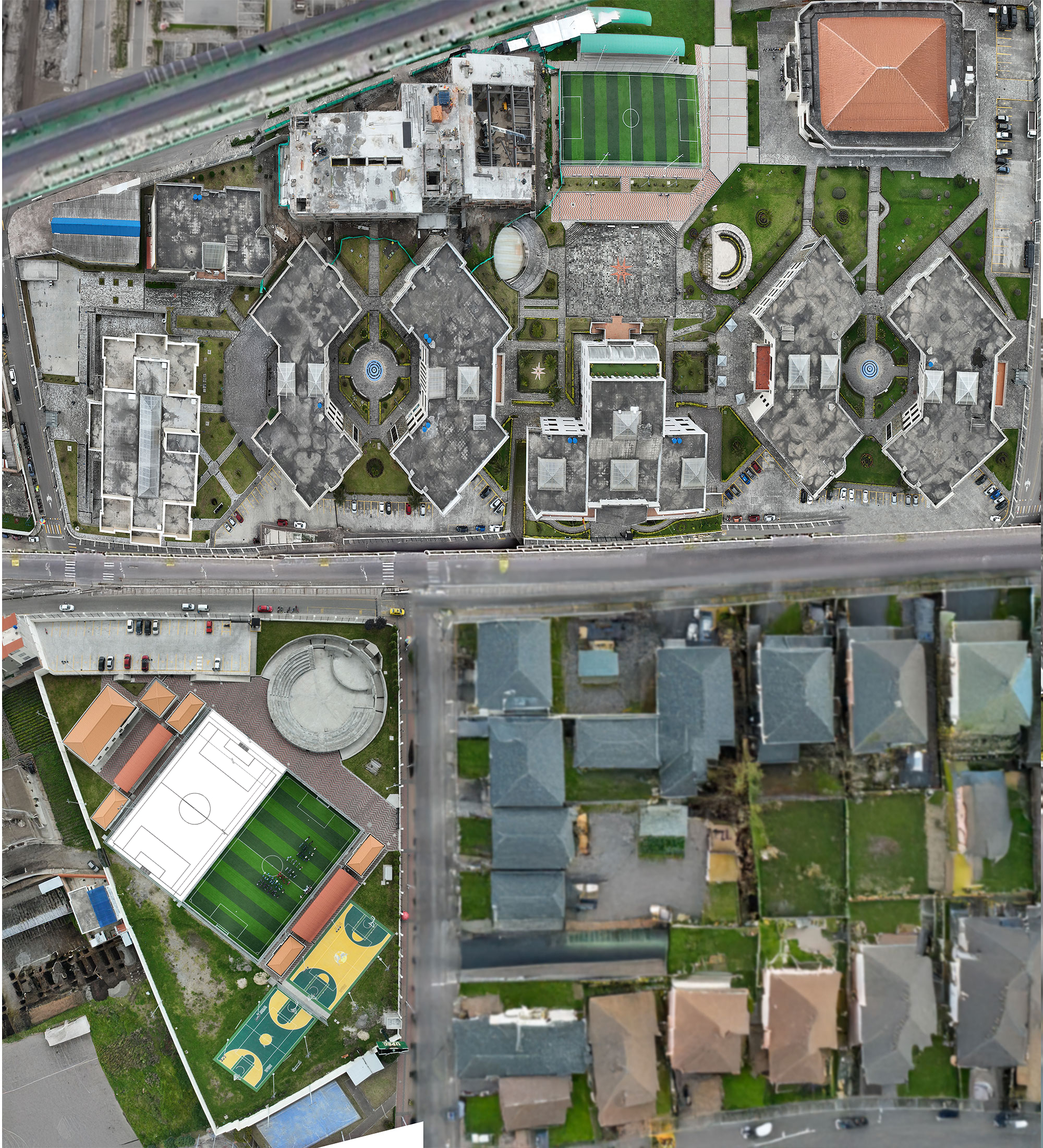
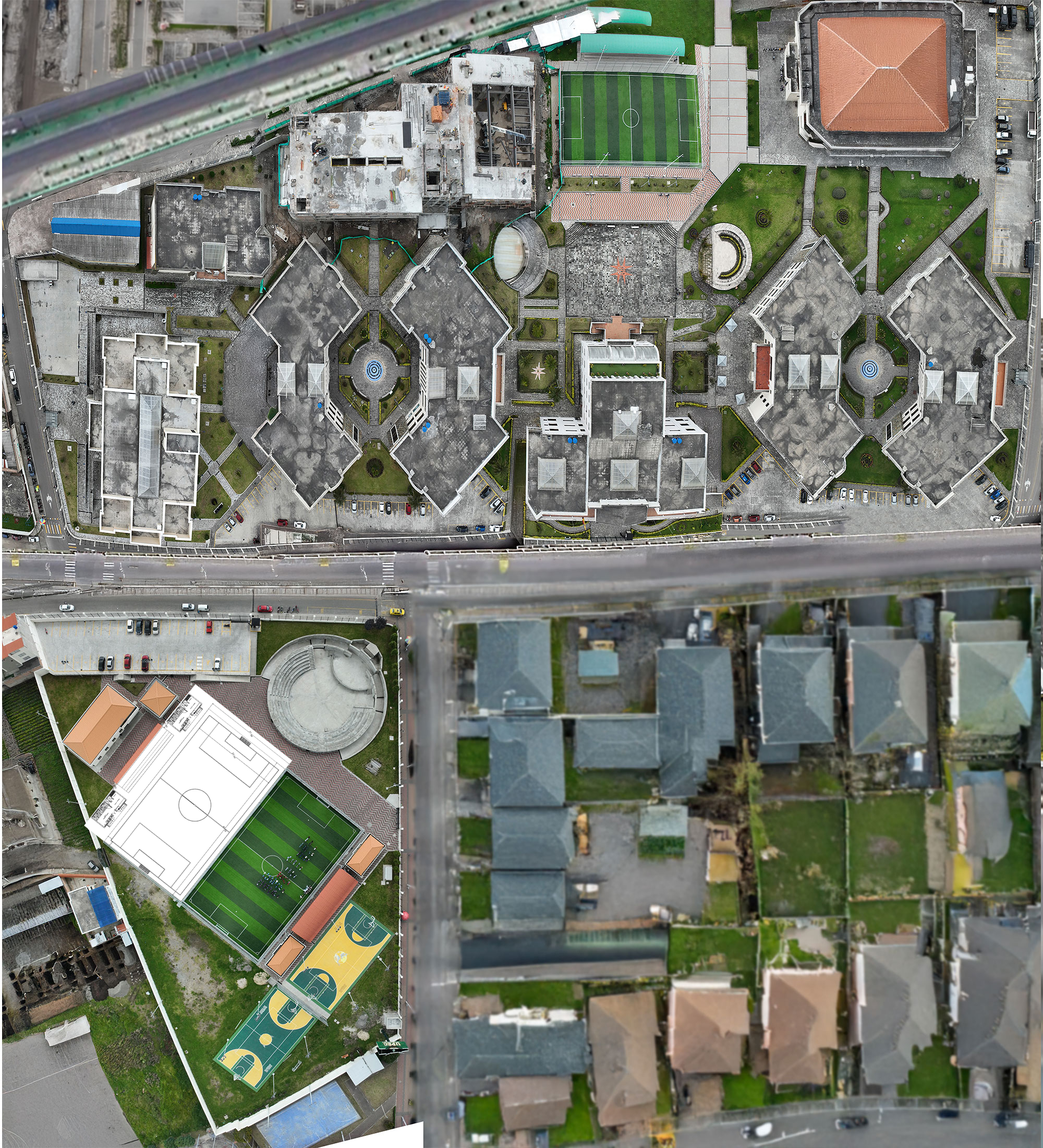
Canchas de futbol mejoradas

Changed region(s): [[0.062, 0.5873, 0.279, 0.7418], [0.124, 0.7109, 0.217, 0.7727]]

diff --git a/universidadmapa/src/data/coordinatesData.ts b/universidadmapa/src/data/coordinatesData.ts
@@ -203,7 +203,7 @@ const areasDeportivasOriginales: AreaDeportiva[] = [
     descripcion: 'Cancha secundaria de fútbol',
     tipo: 'DEPORTIVO',
     color: '#27ae60',
-    plano: '/assets/images/Cancha_31.jpg', // <-- Ruta del plano
+    plano: '/assets/images/Cancha_33.jpg', // <-- Ruta del plano
     selectedColor: 'rgba(0, 100, 255, 0.5)', // Azul transparente
     coordenadas: [
       [1590, 1500], [2367, 2248], [2036, 2768], [1210, 2016]
